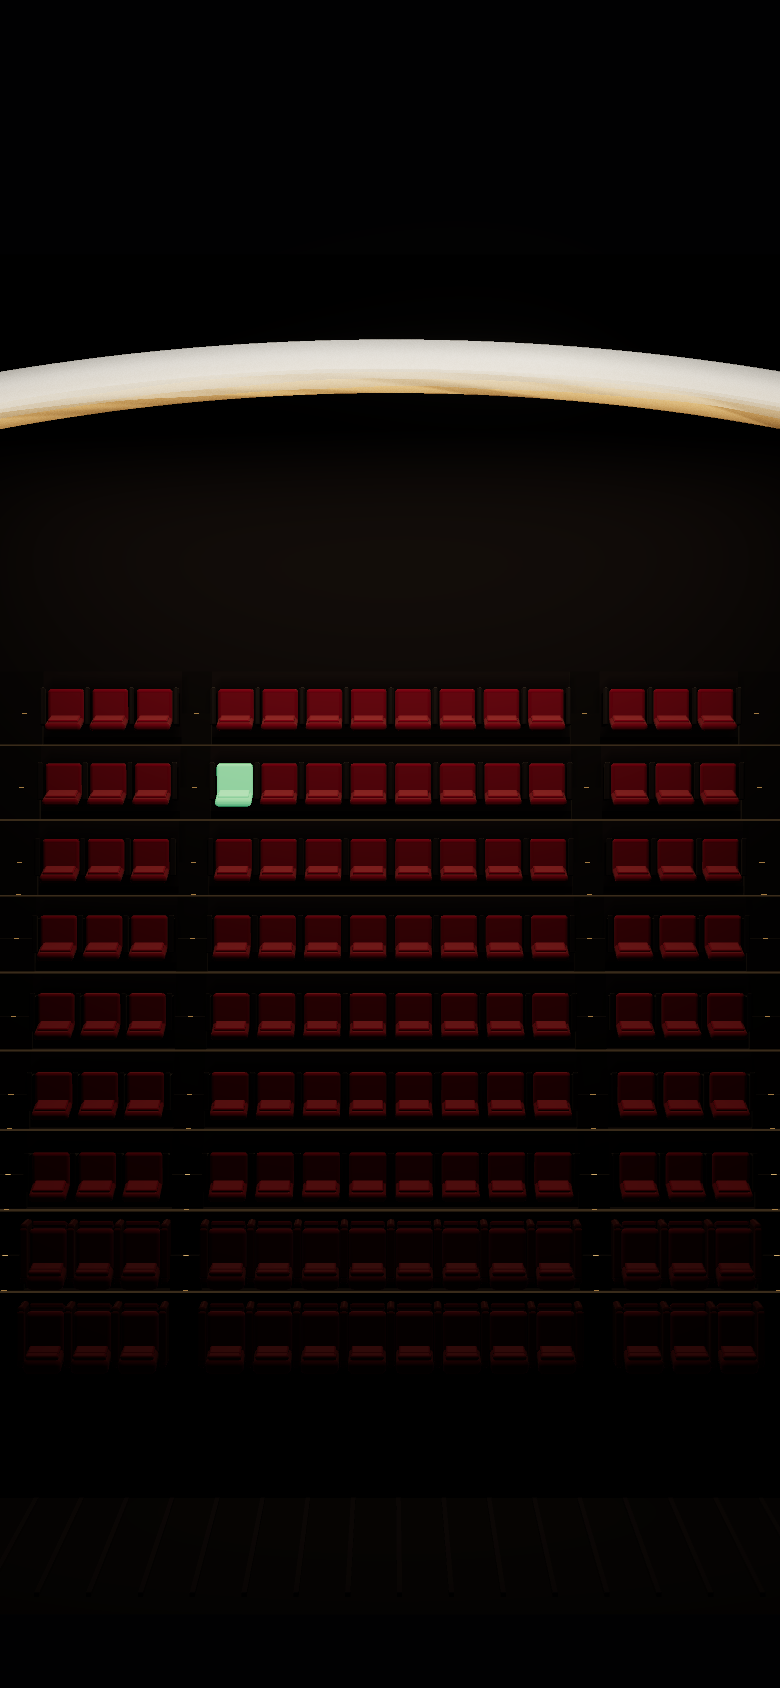
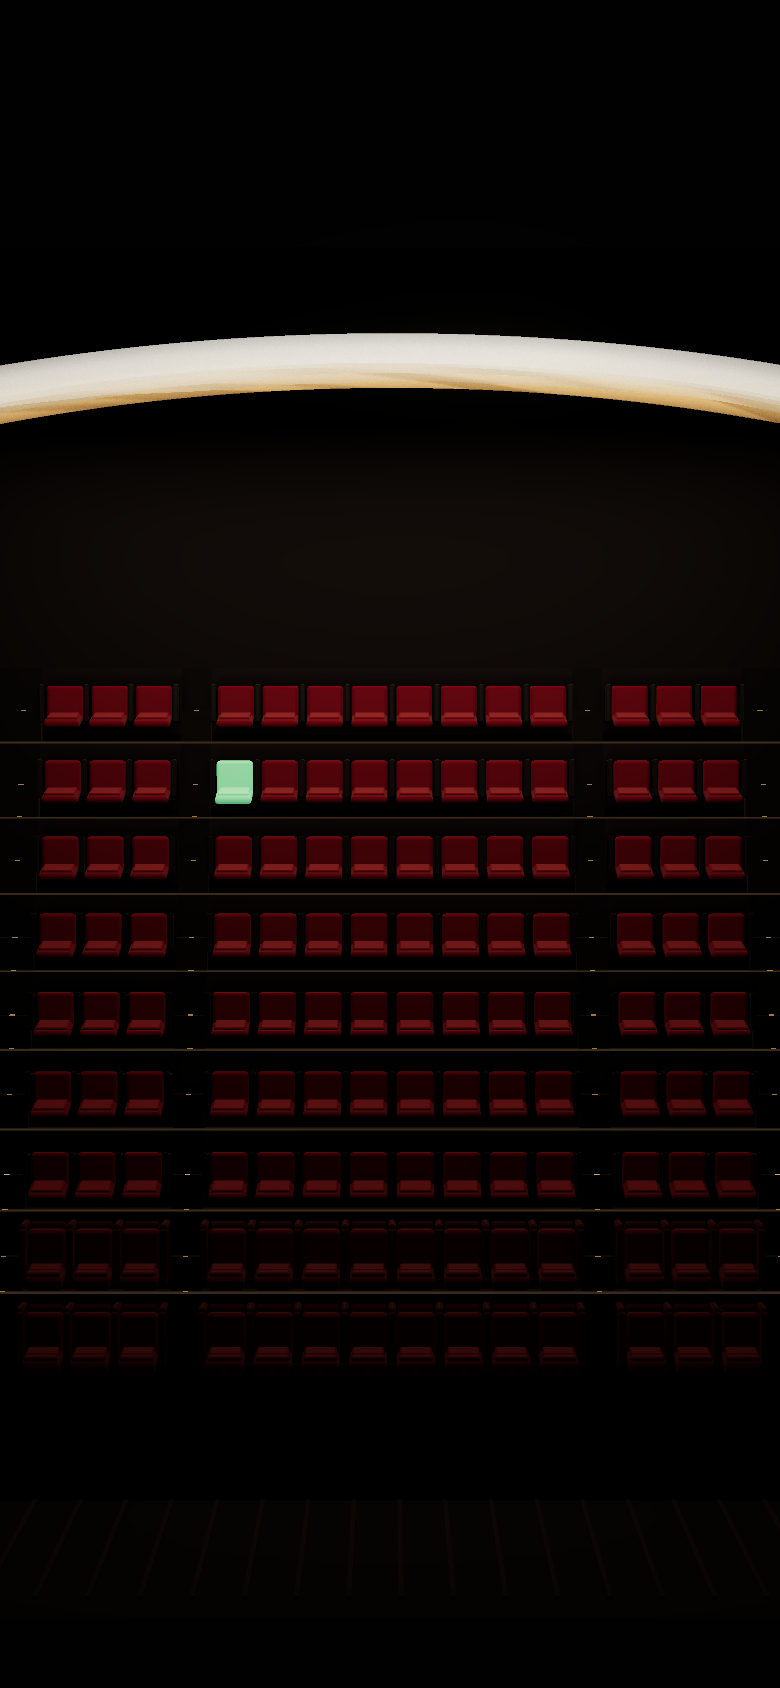
Fly into the seat view as soon as a seat is picked; full-window 3D on desktop
- Picking a seat on the map starts the flight after a short beat (Continue still works)
- 3D hall layer is fixed full-window so desktop shows a real cinema view, not a phone strip
- Hide the Next.js dev indicator badge that overlapped the bottom bar
- distDir via NEXT_DIST_DIR so e2e builds don't clobber a running dev server

diff --git a/components/ui/BookingExperience.tsx b/components/ui/BookingExperience.tsx
@@ -17,6 +17,9 @@ import { SeatViewOverlay } from '@/components/seatview/SeatViewOverlay';
 import { CheckoutSheet } from '@/components/booking/CheckoutSheet';
 import { enterSeat } from '@/lib/transitions';
 
+/** Pause between picking a seat and flying into it. */
+const AUTO_ENTER_DELAY_MS = 550;
+
 const HallCanvas = dynamic(() => import('@/components/three/HallCanvas'), { ssr: false });
 
 interface Props {
@@ -64,6 +67,29 @@ export function BookingExperience({ cinema, showtimes, showtimeId, seats }: Prop
     window.history.replaceState(null, '', `/book/${id}`);
   }, []);
 
+  // Picking a seat on the map goes straight into the view from that seat: a short beat
+  // so the seat visibly turns green (halo + price roll), then the camera flies in.
+  // Tapping another seat during the beat retargets; deselecting cancels.
+  useEffect(() => {
+    let timer: ReturnType<typeof setTimeout> | null = null;
+    const unsub = useBooking.subscribe((s, prev) => {
+      if (s.selectedSeatId === prev.selectedSeatId) return;
+      if (timer) clearTimeout(timer);
+      timer = null;
+      const id = s.selectedSeatId;
+      if (!id || s.mode !== 'map') return;
+      timer = setTimeout(() => {
+        timer = null;
+        const st = useBooking.getState();
+        if (st.mode === 'map' && st.selectedSeatId === id) void enterSeat(id);
+      }, AUTO_ENTER_DELAY_MS);
+    });
+    return () => {
+      unsub();
+      if (timer) clearTimeout(timer);
+    };
+  }, []);
+
   const onContinue = useCallback(() => {
     const id = useBooking.getState().selectedSeatId;
     if (id) void enterSeat(id);
@@ -73,8 +99,11 @@ export function BookingExperience({ cinema, showtimes, showtimeId, seats }: Prop
 
   return (
     <main className="app-column h-[100dvh] overflow-hidden">
+      {/* The 3D hall fills the whole window (on desktop too), not just the phone column.
+          CameraRig converts the map frame rect to canvas coordinates, so the overhead
+          view still lands exactly on the 2D map. */}
       <div
-        className="pointer-events-none absolute inset-0"
+        className="pointer-events-none fixed inset-0"
         style={{ opacity: t, visibility: t > 0 ? 'visible' : 'hidden' }}
         aria-hidden={mode === 'map'}
       >

diff --git a/tests/e2e/booking.spec.ts b/tests/e2e/booking.spec.ts
@@ -15,9 +15,9 @@ const seat = (page: Page, row: string, n: number) => page.locator(`button[aria-l
 const continueBtn = (page: Page) => page.getByRole('button', { name: /^Continue$/ });
 
 async function openSeat(page: Page, row: string, n: number) {
+  // Picking a seat flies straight into its view (no Continue needed).
   await seat(page, row, n).click();
   await expect(page.getByText(`Row ${row} · Seat ${n}`)).toBeVisible();
-  await continueBtn(page).click();
   await expect(page.getByText(`View from ${row}${n}`)).toBeVisible({ timeout: 15_000 });
   await page.waitForTimeout(1600); // let the sheet spring + number count-ups settle
 }
@@ -27,6 +27,9 @@ async function backToMap(page: Page, row: string, n: number) {
   await expect(continueBtn(page)).toBeEnabled({ timeout: 15_000 });
   await expect(seat(page, row, n)).toHaveAttribute('aria-pressed', 'true');
   await page.waitForTimeout(400);
+  // Coming back must NOT fly in again on its own (selection didn't change).
+  await page.waitForTimeout(800);
+  await expect(page.getByText(`View from ${row}${n}`)).toHaveCount(0);
 }
 
 test('reference loop: B4 → F8 → I12 → book', async ({ page }) => {
@@ -42,12 +45,11 @@ test('reference loop: B4 → F8 → I12 → book', async ({ page }) => {
   // ---- B4: UP CLOSE
   await seat(page, 'B', 4).click();
   await expect(page.getByText('Row B · Seat 4')).toBeVisible();
-  await expect(continueBtn(page)).toBeEnabled();
-  await page.waitForTimeout(700);
+  await page.waitForTimeout(250);
   await page.screenshot({ path: `${SHOTS}/02-map-b4-selected.png` });
 
-  await continueBtn(page).click();
-  await page.waitForTimeout(450);
+  // No Continue tap: the flight starts by itself ~0.55 s after picking the seat.
+  await page.waitForTimeout(650);
   await page.screenshot({ path: `${SHOTS}/03a-overhead-3d.png` });
   await page.waitForTimeout(450);
   await page.screenshot({ path: `${SHOTS}/03b-mid-flight.png` });

diff --git a/next.config.ts b/next.config.ts
@@ -2,6 +2,10 @@ import type { NextConfig } from 'next';
 
 const nextConfig: NextConfig = {
   reactStrictMode: true,
+  // Lets tests build/serve from a separate folder without touching a running `next dev`.
+  distDir: process.env.NEXT_DIST_DIR || '.next',
+  // Hide the floating Next.js "N" dev badge; it sits on top of the bottom bar.
+  devIndicators: false,
 };
 
 export default nextConfig;

diff --git a/playwright.config.ts b/playwright.config.ts
@@ -36,6 +36,7 @@ export default defineConfig({
   ],
   webServer: {
     command: `npx next start -p ${PORT}`,
+    env: { NEXT_DIST_DIR: process.env.NEXT_DIST_DIR ?? '.next' },
     url: `http://localhost:${PORT}`,
     reuseExistingServer: true,
     timeout: 120_000,
